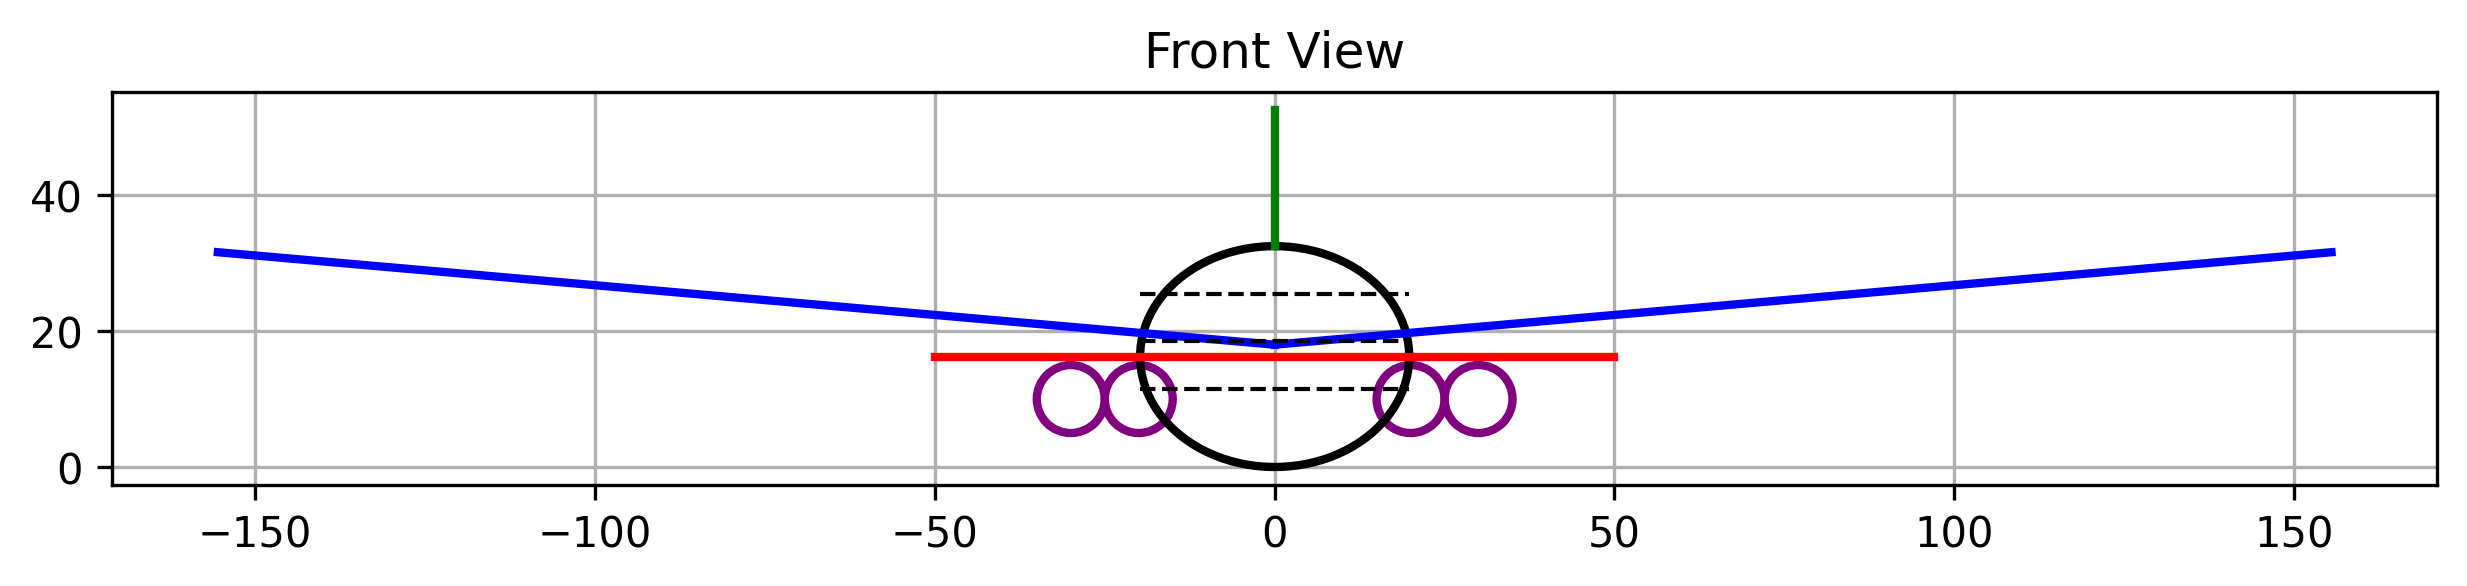
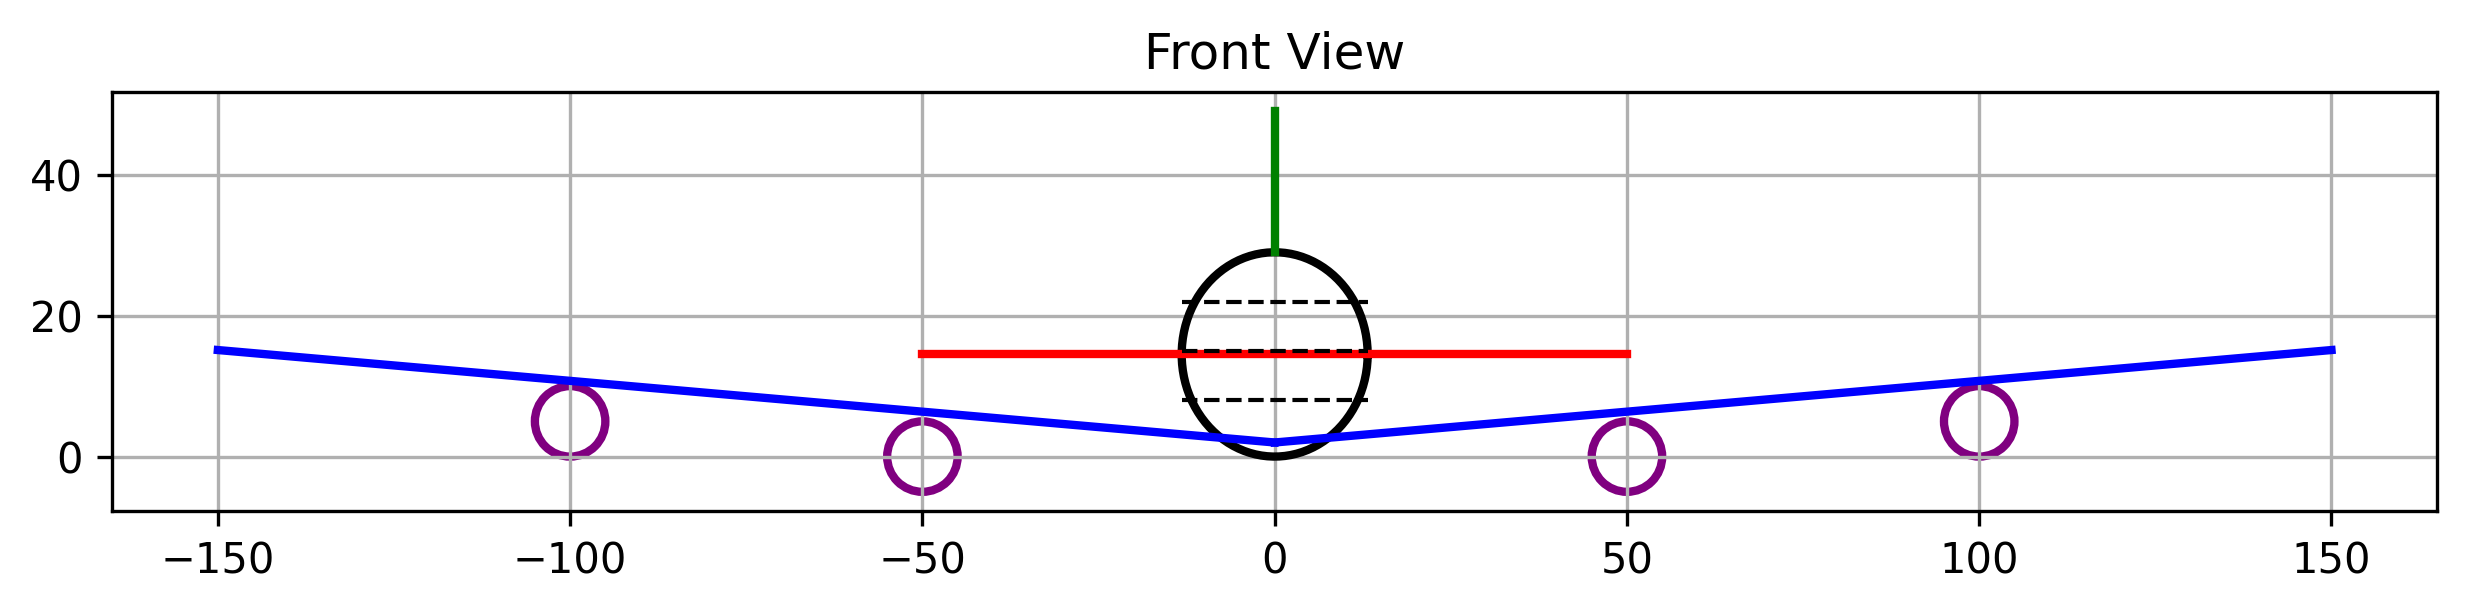
whoops, forgot to add my changes

diff --git a/scripts/aircraft_drawing_new.py b/scripts/aircraft_drawing_new.py
@@ -85,6 +85,7 @@ class AircraftPlotter:
         cargo_volume = sum(config['seat_width']*config['seat_height'] * self.fuselage_length for config in seat_configs if config.get('cargo', False))
         print(f"Total Cargo Volume: {cargo_volume:.0f} ft^3")
         assert cargo_volume >= total_passengers * cargo_per_passenger
+        
         # Set all parameters
         self.wing = {
             'span': wingspan,
@@ -131,8 +132,71 @@ class AircraftPlotter:
         'center_x': wing_center_x if wing_center_x is not None else -self.fuselage_length/4,
         'center_y': wing_center_y if wing_center_y is not None else self.total_height/2
         })
-    
+
+        self.wing.update({
+            'area': self._calculate_wing_area(),
+            'AR': self._calculate_aspect_ratio(),
+            'volume': self._calculate_wing_volume(),
+        })
+        
         self.engines = engines or []
+
+    def _calculate_wing_area(self):
+        """
+        Calculate total wing area by integrating chord distribution along span.
+        Returns area of both wings combined.
+        """
+        half_span = self.wing['span'] / 2
+        chord_data = self.wing['chord_data']
+        
+        # Convert percentage positions to actual distances
+        positions = [pos * half_span / 100 for pos, _ in chord_data]
+        chords = [chord for _, chord in chord_data]
+        
+        # Calculate area by trapezoidal integration
+        area = 0
+        for i in range(len(positions) - 1):
+            dx = positions[i+1] - positions[i]
+            avg_chord = (chords[i] + chords[i+1]) / 2
+            area += dx * avg_chord
+            
+        # Multiply by 2 for both wings
+        return 2 * area
+
+    def _calculate_wing_volume(self):
+        """
+        Calculate total wing volume by integrating chord and thickness distribution along span.
+        Returns volume of both wings combined.
+        Uses thickness ratio and assumes a typical airfoil shape factor of 0.6.
+        """
+        half_span = self.wing['span'] / 2
+        chord_data = self.wing['chord_data']
+        thickness_ratio = self.wing['thickness']
+        airfoil_shape_factor = 0.6  # Typical value for transport aircraft airfoils
+        
+        # Convert percentage positions to actual distances
+        positions = [pos * half_span / 100 for pos, _ in chord_data]
+        chords = [chord for _, chord in chord_data]
+        
+        # Calculate volume by trapezoidal integration
+        volume = 0
+        for i in range(len(positions) - 1):
+            dx = positions[i+1] - positions[i]
+            # Average chord in this section
+            avg_chord = (chords[i] + chords[i+1]) / 2
+            # Volume of wing section = length * chord * thickness * shape factor
+            section_volume = dx * avg_chord * avg_chord * thickness_ratio * airfoil_shape_factor
+            volume += section_volume
+            
+        # Multiply by 2 for both wings, but use triangular cross section
+        return volume 
+    
+    def _calculate_aspect_ratio(self):
+        """
+        Calculate wing aspect ratio: AR = (wingspan)^2 / area
+        """
+        wing_area = self._calculate_wing_area()
+        return (self.wing['span']**2) / wing_area
 
     
     def _generate_wing_points(self):
@@ -148,6 +212,7 @@ class AircraftPlotter:
             points.append((x, y, chord))
             
         return np.array(points)
+
 
     def to_dict(self):
         """Return all aircraft parameters as a dictionary"""
@@ -449,7 +514,7 @@ class AircraftPlotter:
         
         # Add points for top and bottom curves
         control_points.extend([
-            (0, y_positions[0]-floor_heights[0]/2-1e-3),
+            (0, y_positions[0]-floor_heights[0]/4-1e-3),
             (0, y_positions[-1]+1e-3),
         ])
         control_points = np.array(control_points)
@@ -516,15 +581,15 @@ class AircraftPlotter:
         ax_side.set_xlim([-max_length/2, max_length/2 + tail_length])
         
         ax_front.set_xlim([-max_width/2, max_width/2])
-        ax_front.set_ylim([0, max_height + tail_height])
+        ax_front.set_ylim([-max_height, max_height + tail_height])
         
         # Set labels
-        ax_top.set_xlabel('Length (m)')
-        ax_top.set_ylabel('Span (m)')
-        ax_side.set_xlabel('Length (m)')
-        ax_side.set_ylabel('Height (m)')
-        ax_front.set_xlabel('Span (m)')
-        ax_front.set_ylabel('Height (m)')
+        ax_top.set_xlabel('Length (ft)')
+        ax_top.set_ylabel('Span (ft)')
+        ax_side.set_xlabel('Length (ft)')
+        ax_side.set_ylabel('Height (ft)')
+        ax_front.set_xlabel('Span (ft)')
+        ax_front.set_ylabel('Height (ft)')
         
         # Set equal aspect ratio
         for ax in [ax_top, ax_side, ax_front]:
@@ -565,11 +630,11 @@ def main():
     # Add seating configuration
     seat_configs = [
         {
-            'seat_width': 32,
-            'seat_depth': 2,    
-            'seat_height': 11,
+            'seat_width': 14,
+            'seat_depth': 1,    
+            'seat_height': 8,
             'headroom_height':0,
-            'ceiling_height':11.5,
+            'ceiling_height':8,
             'aisle_width': 0.5,
             'seat_distribution':[1],
             'cargo':True
@@ -581,7 +646,7 @@ def main():
             'headroom_height':1,
             'ceiling_height':7,
             'aisle_width': 2,
-            'seat_distribution':[3,6,6,3]
+            'seat_distribution':[3,6,3]
         },
         {
             'seat_width': 1.5,
@@ -590,7 +655,7 @@ def main():
             'headroom_height':1,
             'ceiling_height':7,
             'aisle_width': 2,
-            'seat_distribution':[3,6,6,3]
+            'seat_distribution':[3,5,3]
         },
         {
             'seat_width': 2.5,
@@ -599,7 +664,7 @@ def main():
             'headroom_height':1,
             'ceiling_height':7,
             'aisle_width': 2,
-            'seat_distribution':[2,2,2]
+            'seat_distribution':[1,2,1]
         },
 
     ]
@@ -613,20 +678,20 @@ def main():
         'radius': 5,
         'length': 20,
         'positions': [
-            (-30, 30, 10),  # (x, y, height) from centerline
-            (-40, 20, 10)
+            (-20, 50, 0),  # (x, y, height) from centerline
+            (15, 100, 5)
         ]
     }
     ]
 
     
     plotter = AircraftPlotter(
-        total_passengers=1200,
+        total_passengers=1250,
         seat_configs=seat_configs,
         galleys=galleys,
-        wingspan=311, #f
+        wingspan=300, #f
         sweep=37.5, #deg
-        wing_chord_data=[(0, 65), (30, 45), (100, 15)],
+        wing_chord_data=[(0, 65), (30, 35), (100, 10)],
         wing_thickness=0.12, dihedral=5,
         v_span=20, 
         v_sweep=35,
@@ -636,7 +701,7 @@ def main():
         h_chord_data=[(0, 40), (100, 10)],
         tail_configuration='low',
         wing_center_x=-50,  # Move wing forward
-        wing_center_y=18,   # Adjust wing height
+        wing_center_y=2,   # Adjust wing height
         cockpit_length=20,
         engines=engines
     )
@@ -687,3 +752,4 @@ if __name__ == "__main__":
     # C_L correlation:
         # Find c_bar
         # find wetted area 
+    # raymer 48,52,57,63
